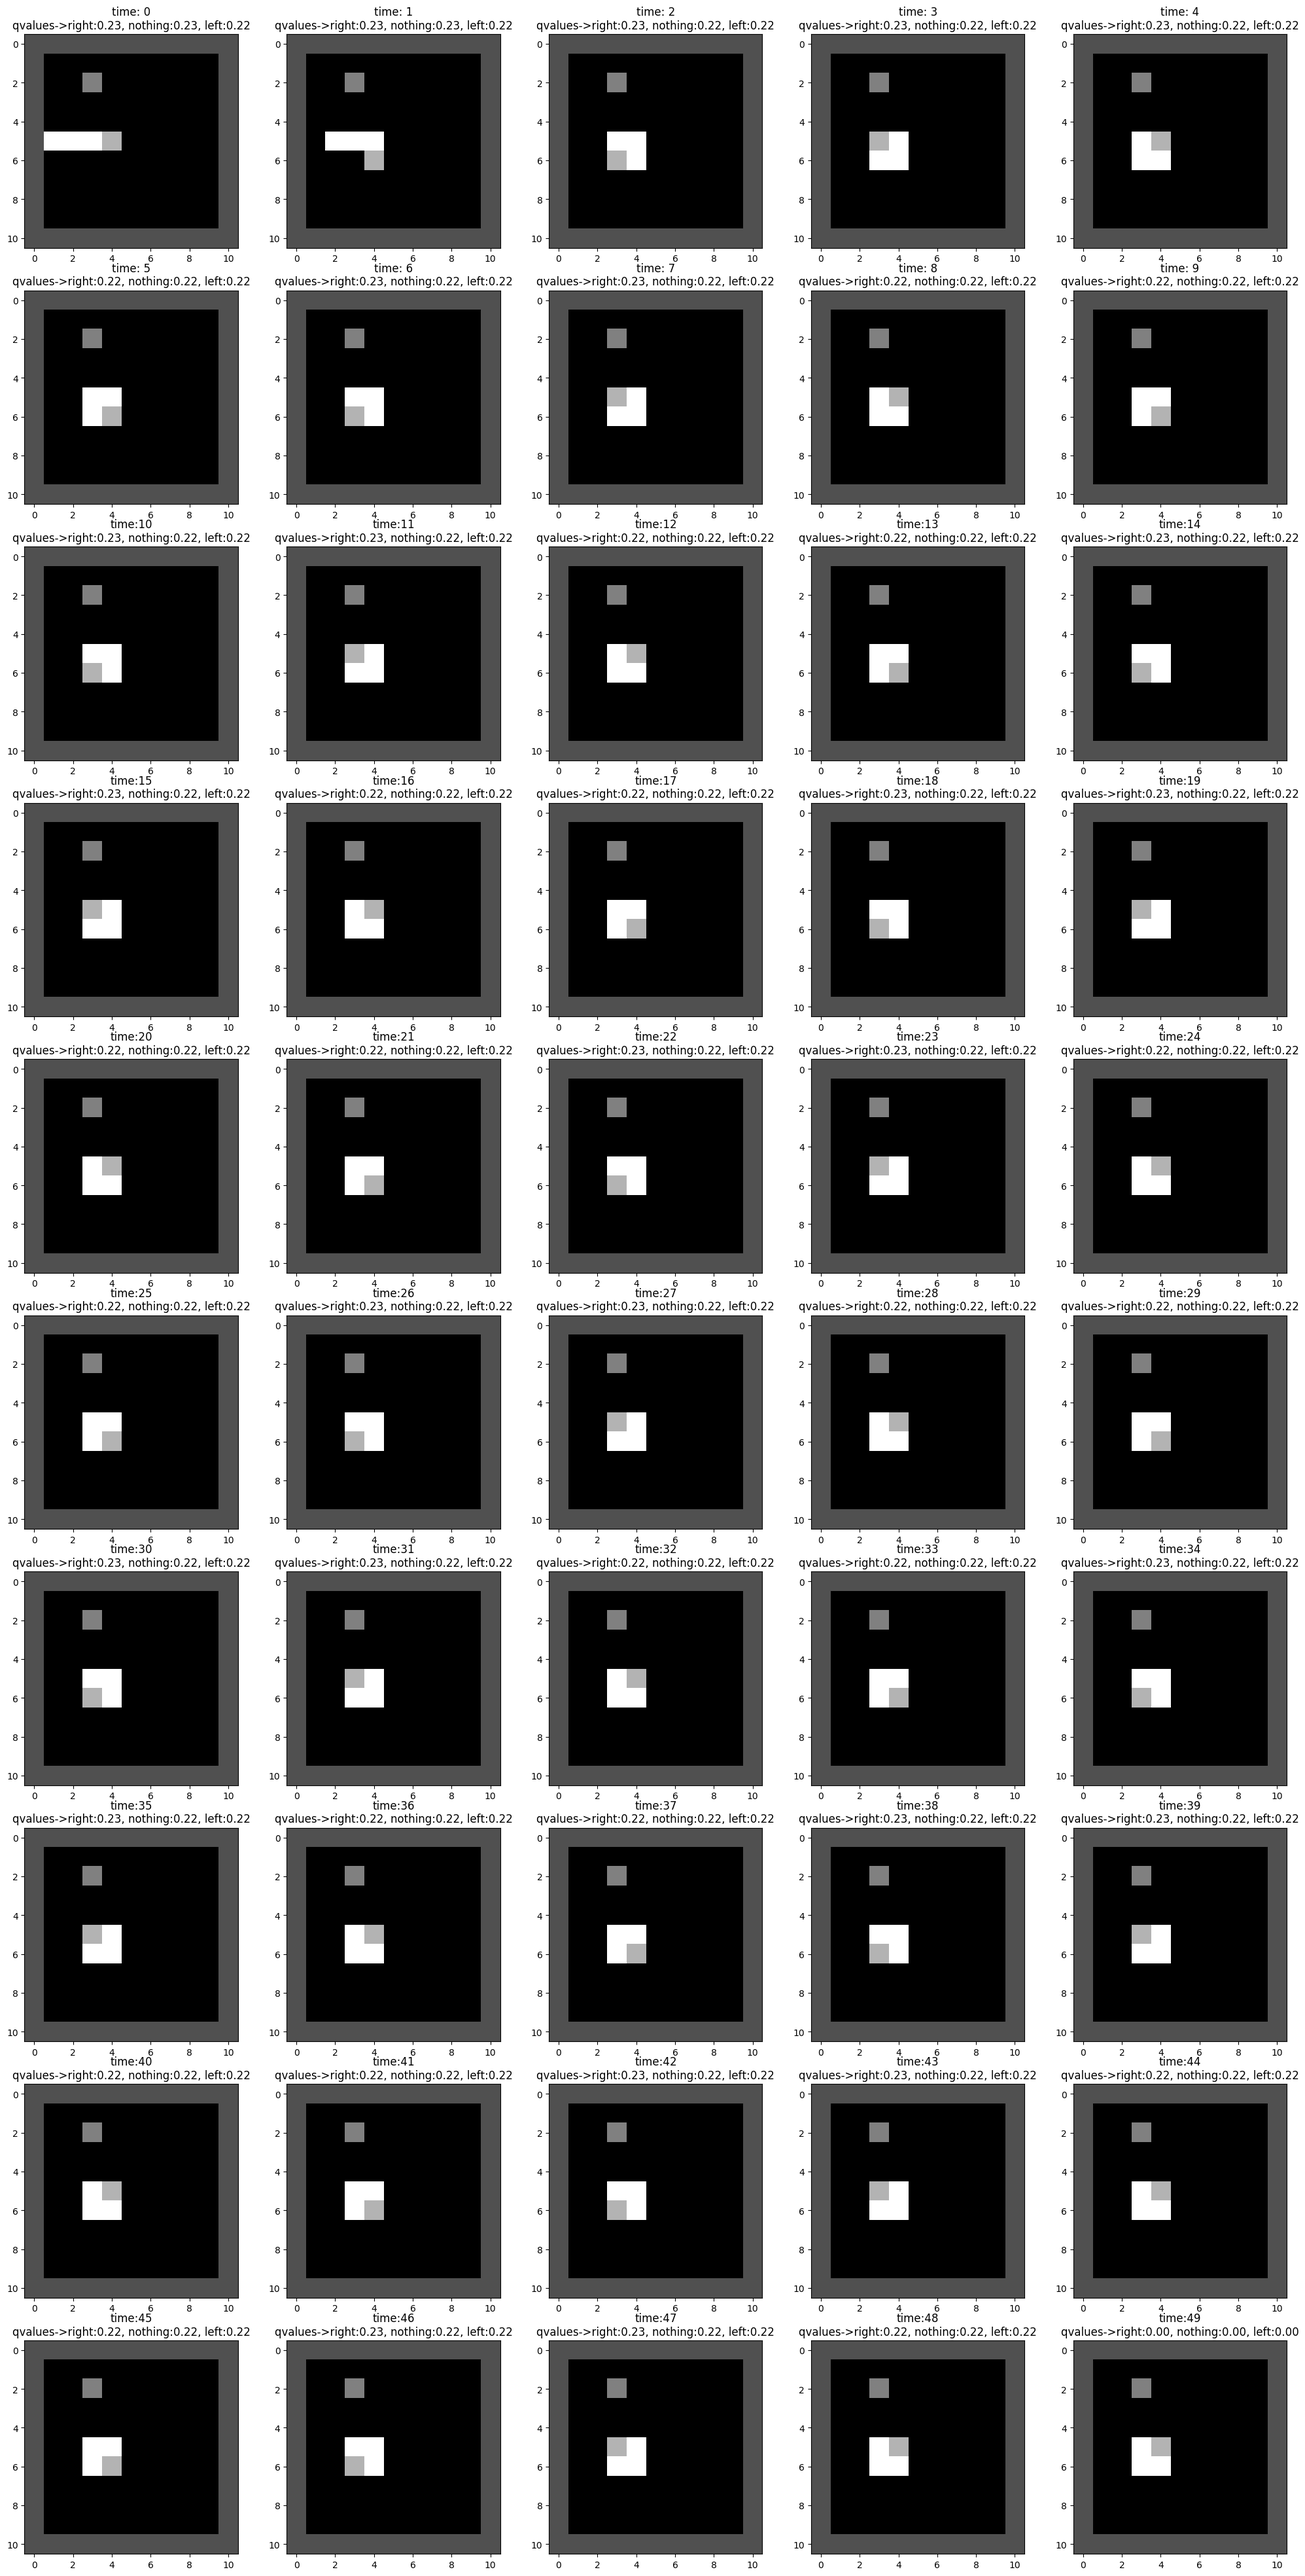
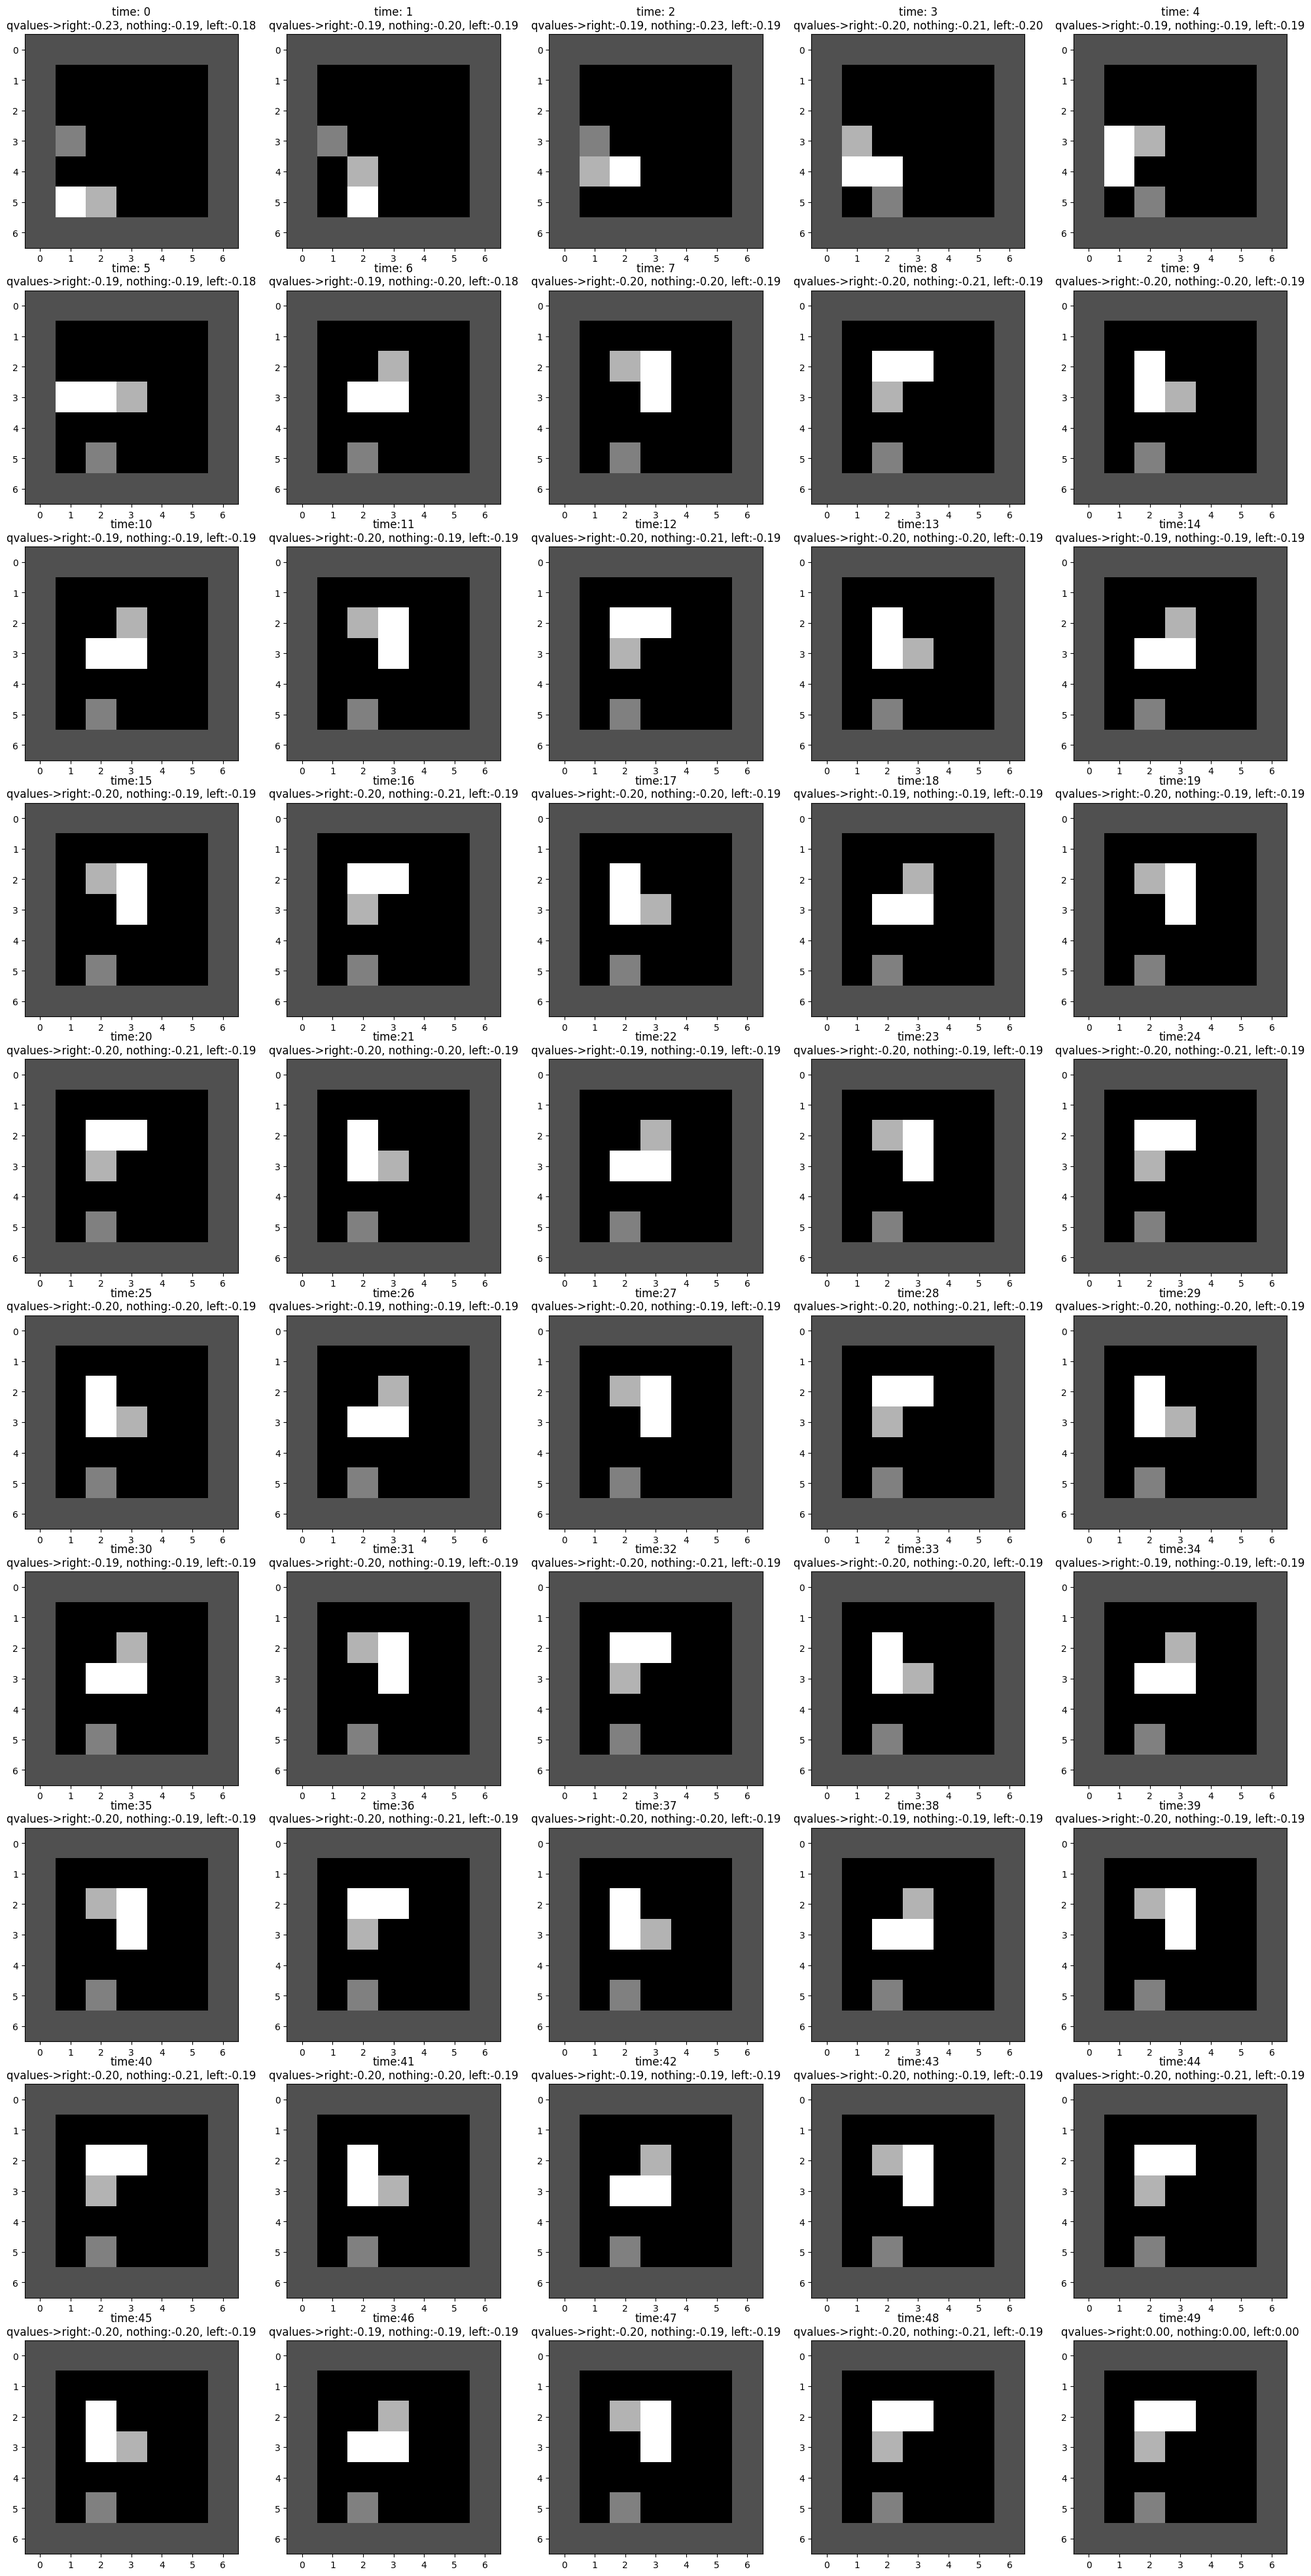
add experiments with smaller boards, make model simpler, add seed to play_game

Changed region(s): [[0.2175, 0.0, 0.9945, 1.0], [0.0, 0.0, 0.1865, 1.0], [0.0, 0.1875, 0.0311, 0.2188]]

diff --git a/training.py b/training.py
@@ -15,7 +15,7 @@ import pandas as pd
 from utils import play_game
 
 # some global variables
-board_size = 11
+board_size = 7
 frames = 4
 
 
@@ -33,12 +33,12 @@ epsilon = 0.9
 epsilon_end = 0.01
 episodes = 10**5
 # decay = np.exp(np.log((epsilon_end/epsilon))/episodes)
-decay = 0.98
+decay = 0.99
 
 # play some games initially and train the model
 agent.set_epsilon(epsilon)
 for i in range(3):
-    _ = play_game(env, agent, n_games=1000//3, record=True, verbose=True)
+    _ = play_game(env, agent, n_games=1000//3, record=True, verbose=True, reset_seed=True)
 # _ = agent.train_agent(sample_size=5000, epochs=20)
 
 rewards_history = []
@@ -52,7 +52,7 @@ for index in tqdm(range(episodes)):
     if((index+1)%100 == 0):
         # keep track of agent rewards_history
         agent.set_epsilon(0)
-        current_rewards = play_game(env, agent, n_games=20, record=False)
+        current_rewards = play_game(env, agent, n_games=10, record=False)
         rewards_history.append(np.mean(current_rewards))
         # if episodes is large, print only once in a while
         print('Current Reward mean, dev : {:.2f}, {:.3f}'.\
@@ -63,7 +63,7 @@ for index in tqdm(range(episodes)):
     # copy weights to target network and save models
     if((index+1)%500 == 0):
         agent.update_target_net()
-        agent.save_model(file_path='models_v2/', iteration=(index+1))
+        agent.save_model(file_path='models_v3/', iteration=(index+1))
         # keep some epsilon alive for training
         epsilon = max(epsilon * decay, epsilon_end)
     agent.set_epsilon(epsilon)

diff --git a/agent.py b/agent.py
@@ -98,8 +98,7 @@ class QLearningAgent():
         if(np.random.random() <= self._epsilon):
             action = int(np.random.choice(list(range(self._n_actions)), 1)[0])
         else:
-            q_values = self._get_qvalues(board.reshape((1,) + self._input_shape),
-                                        self._model_pred)
+            q_values = self._get_qvalues(board, self._model_pred)
             action = int(np.argmax(q_values))
         action = self._action_map(action)
         return action
@@ -113,10 +112,10 @@ class QLearningAgent():
         input_board = Input((self._board_size, self._board_size, self._n_frames,))
         input_action = Input((self._n_actions,))
         # total rows + columns + diagonals is total units
-        x = Conv2D(64, (3,3), activation = 'relu')(input_board)
-        x = Conv2D(128, (3,3), activation = 'relu')(x)
+        x = Conv2D(16, (3,3), activation = 'relu', data_format='channels_last')(input_board)
+        x = Conv2D(32, (3,3), activation = 'relu', data_format='channels_last')(x)
         x = Flatten()(x)
-        x = Dense(64, activation = 'relu')(x)
+        x = Dense(128, activation = 'relu')(x)
         x = Dense(self._n_actions, activation = 'linear', name = 'action_values')(x)
         x = Multiply()([input_action, x])
         out = Lambda(lambda x: K.sum(x, axis = 1), output_shape = (1,))(x)

diff --git a/game_environment.py b/game_environment.py
@@ -46,7 +46,7 @@ class Snake:
                                    snake is moving
         snake (queue) : a queue to store the positions of the snake body
     '''
-    def __init__(self, board_size=11, frames=4, start_length=4, seed=42):
+    def __init__(self, board_size=11, frames=4, start_length=5, seed=42):
         '''
         Initialization function for the environment.
         '''
@@ -54,13 +54,13 @@ class Snake:
         self._actions = {0:'none', 1:'left', -1:'right'}
         self._board_size = board_size
         self._n_frames = frames
-        self._reward = {'out':-1, 'food':10, 'time':-0.01}
+        self._reward = {'out':-1, 'food':1, 'time':0}
         # start length is constrained to be less than half of board size
         self._start_length = min(start_length, (board_size-2)//2)
         # set numpy seed for reproducible results
-        np.random.seed(seed)
+        # np.random.seed(seed)
         # time limit to contain length of game
-        self._max_time_limit = 48
+        self._max_time_limit = 998
 
     def _queue_to_board(self):
         '''

diff --git a/game_visualization.py b/game_visualization.py
@@ -9,17 +9,20 @@ from utils import visualize_game
 import keras.backend as K
 
 # some global variables
-board_size = 11
+board_size = 7
 frames = 4
 
 # setup the environment
 env = Snake(board_size=board_size, frames=frames)
 s = env.reset()
+# set the max time limit manually
+env._max_time_limit = 48
 
 # setup the agent
 K.clear_session()
 agent = QLearningAgent(board_size=board_size, frames=frames, buffer_size=20000)
 
-for iteration in [5000, 10000, 15000, 20000, 25000, 30000, 35000, 40000, 45000, 50000, 55000, 60000]:
-    agent.load_model('models_v2', iteration=iteration)
+# for iteration in [5000, 10000, 15000, 20000, 25000, 30000, 35000, 40000, 45000, 50000, 55000, 60000]:
+for iteration in range(91000):
+    agent.load_model('models_v3', iteration=iteration)
     visualize_game(env, agent, path='images/game_visual_v3_{:d}.png'.format(iteration), debug=True)

diff --git a/utils.py b/utils.py
@@ -1,15 +1,19 @@
 # some utility functions for the project
 from tqdm import tqdm
 import matplotlib.pyplot as plt
+import numpy as np
 
 def play_game(env, agent, n_games=100, record=True,
-              verbose=False):
+              verbose=False, reset_seed=False):
     '''
     function to play some games and return the rewards list
+    has reset seed option to keep the board exactly same every time
     '''
     rewards = []
     iterator = range(n_games)
     for _ in (tqdm(iterator) if verbose else iterator):
+        if(reset_seed):
+            np.random.seed(42)
         rewards.append(0)
         s = env.reset()
         done = 0
